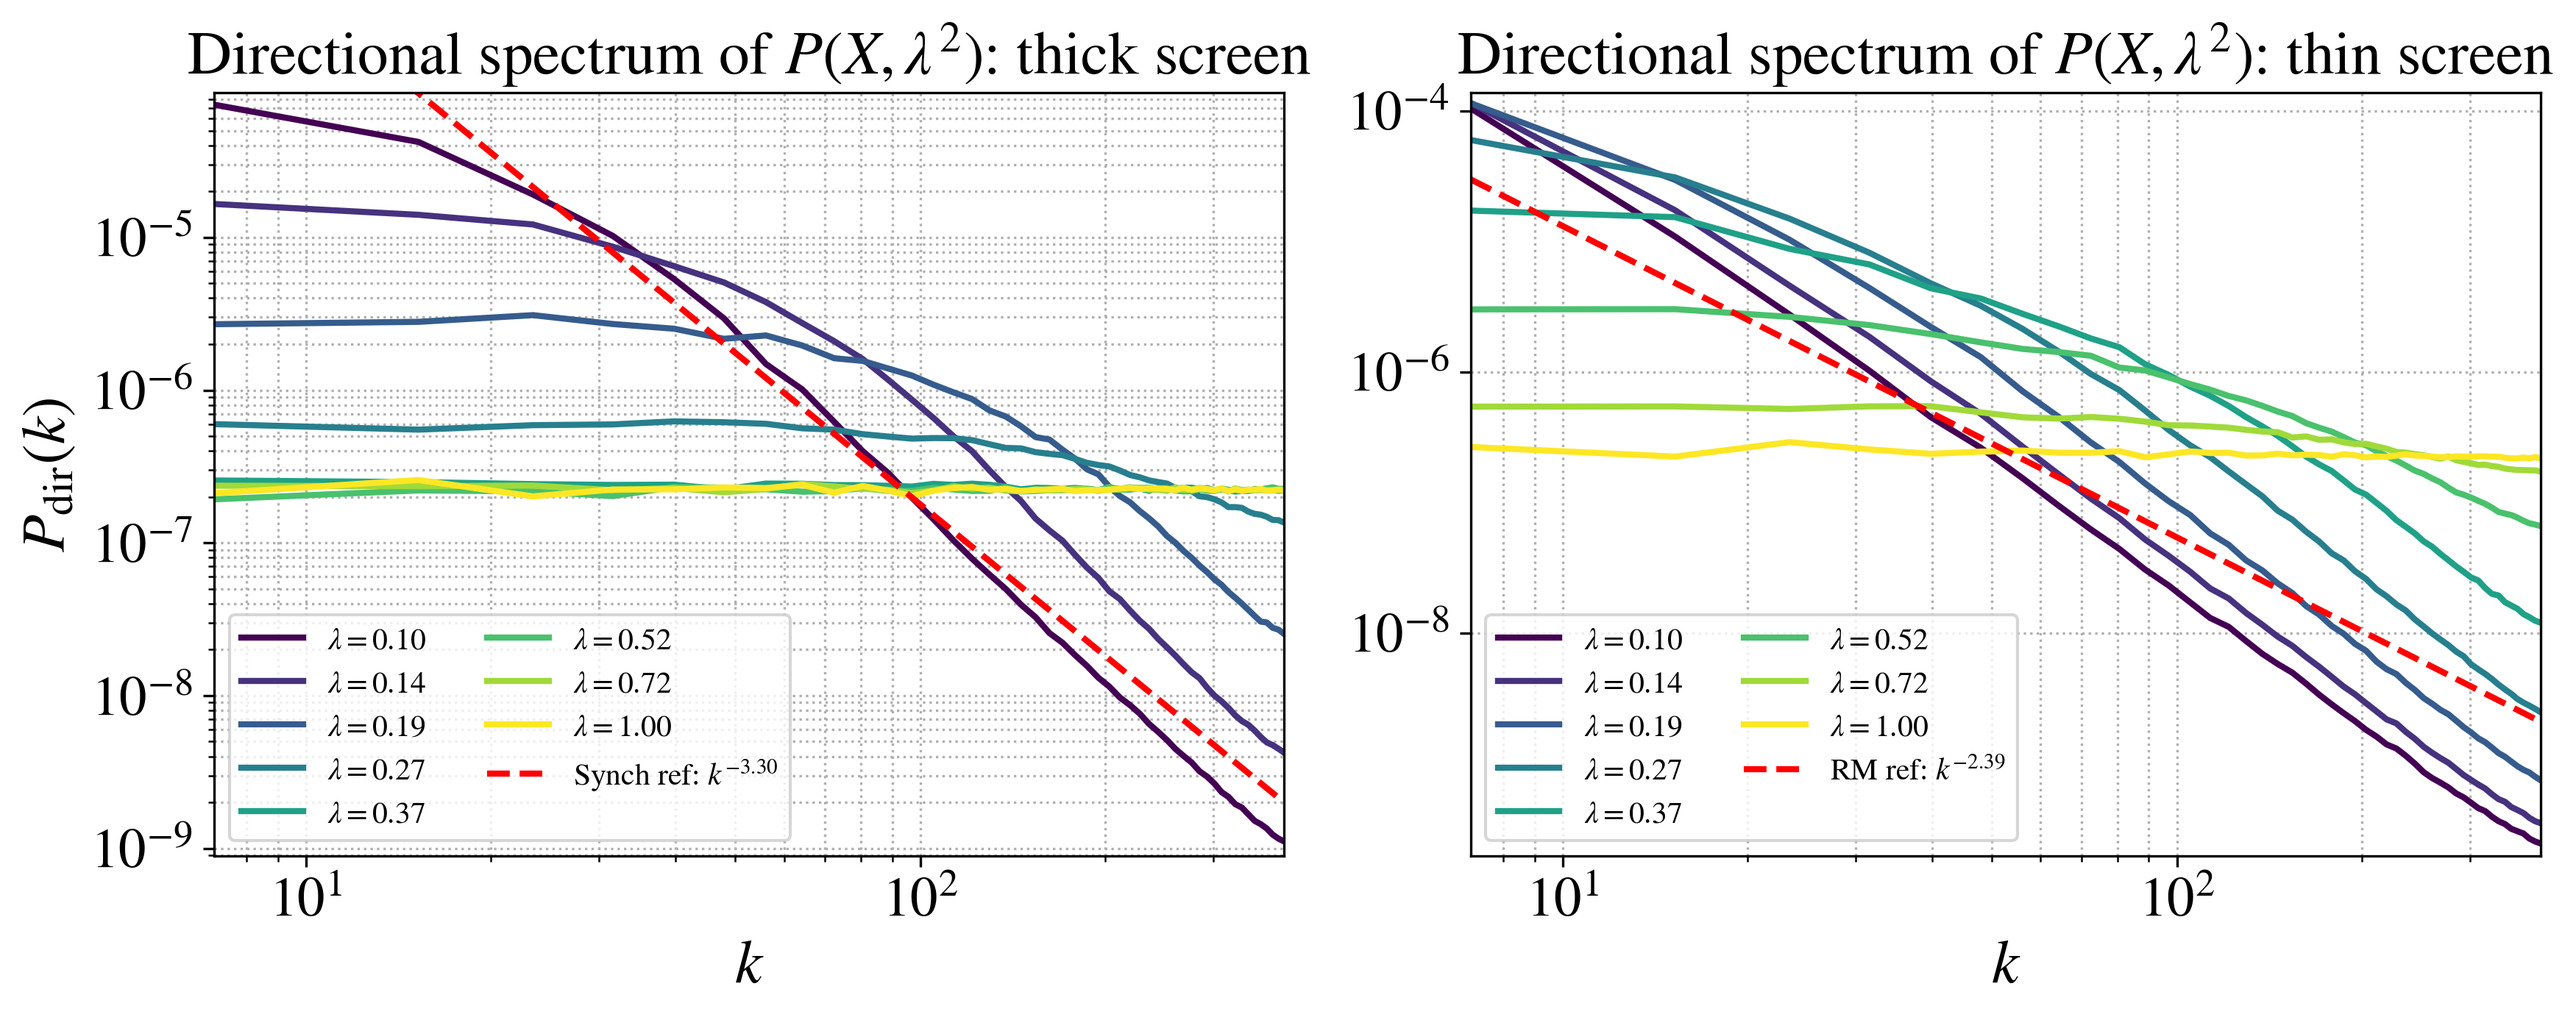
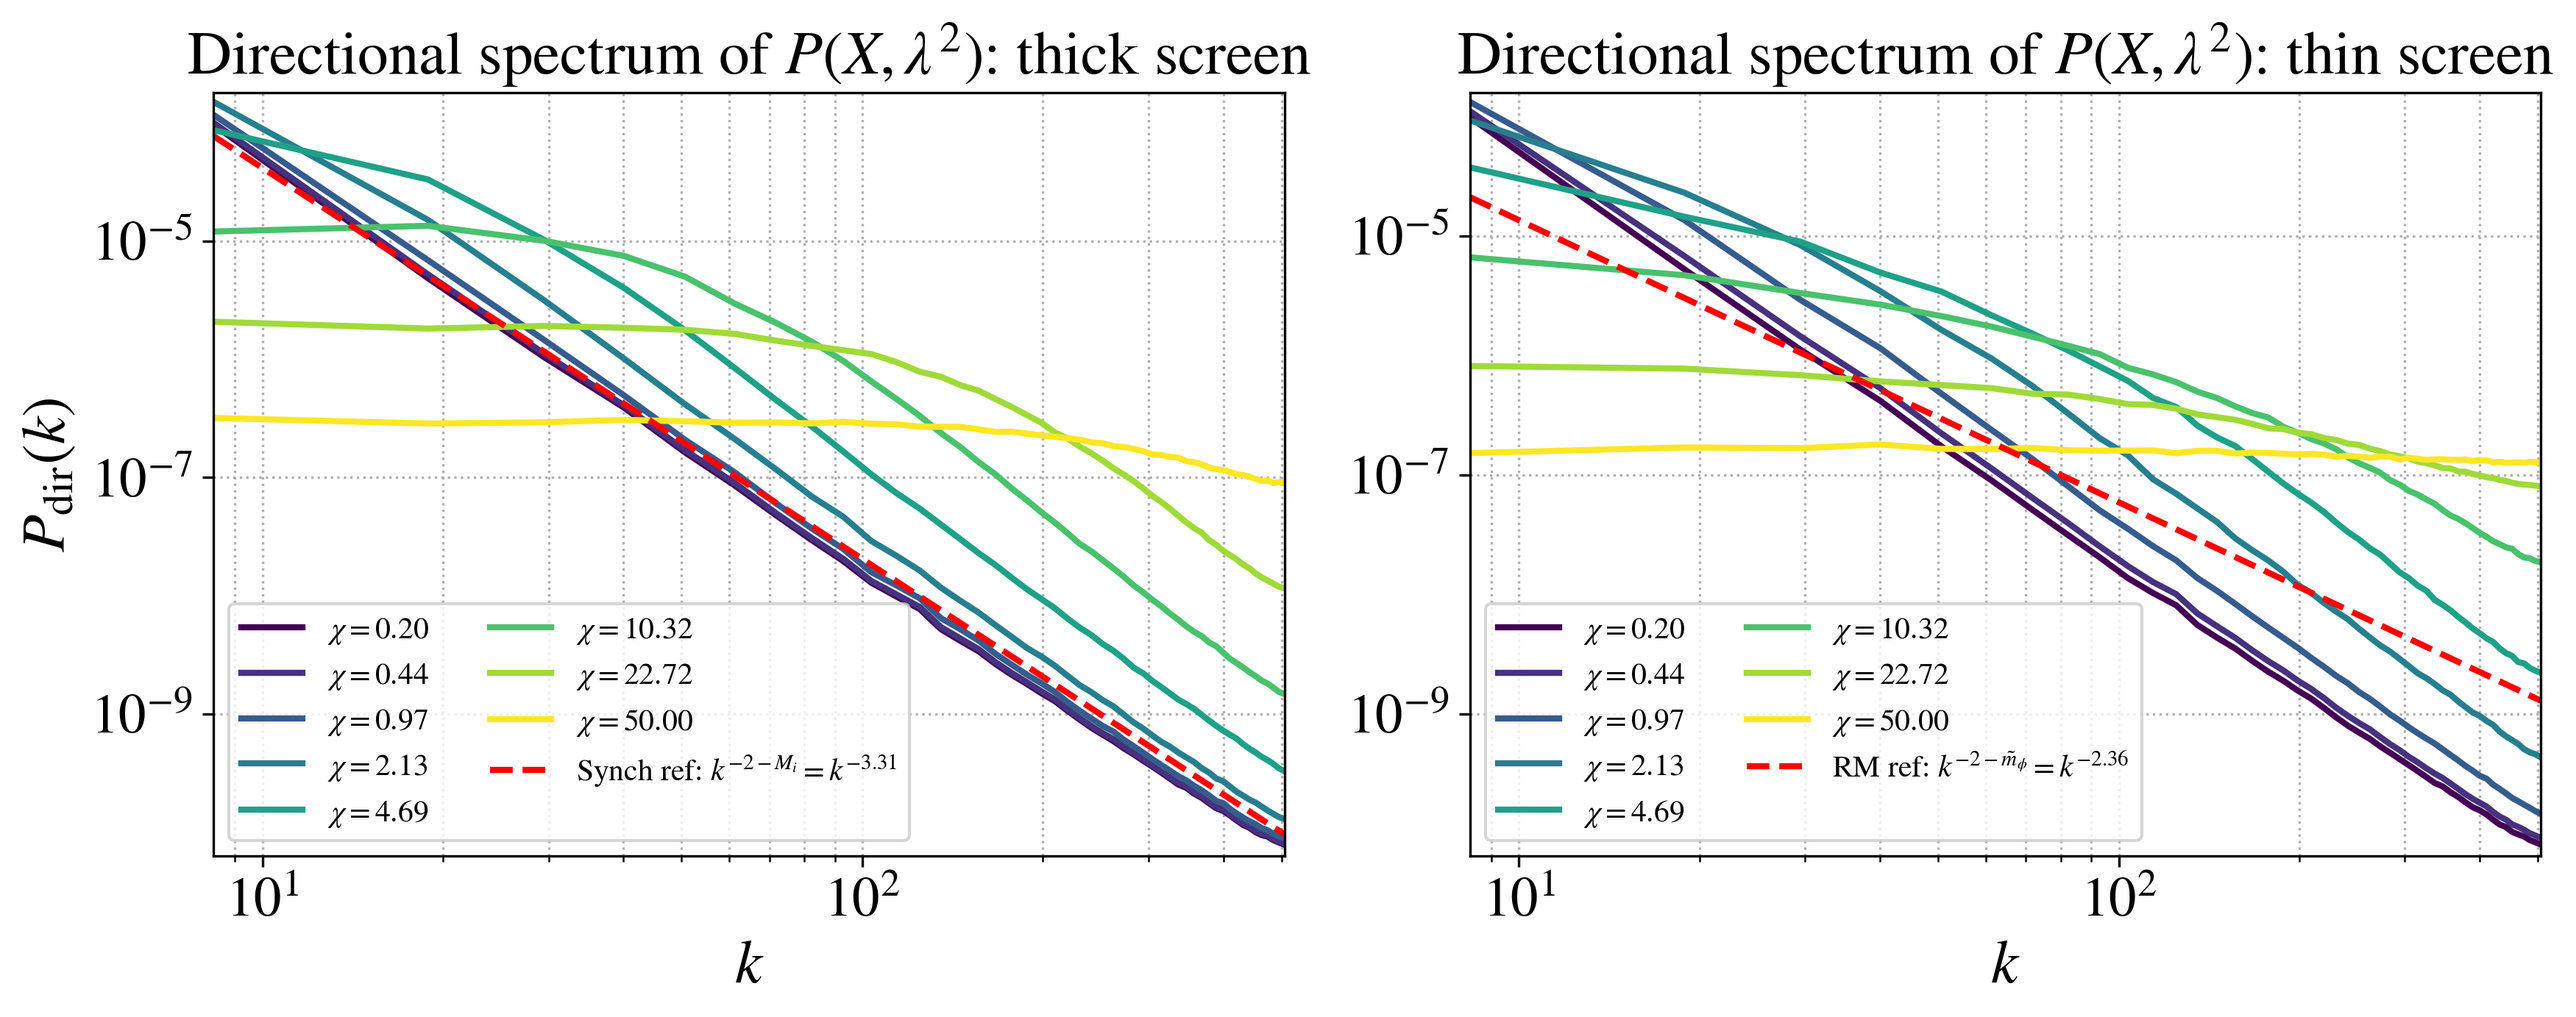
1024^3 synthetic simulation

diff --git a/compare_measures/directional_spectrum/appendix_c/163_165.py b/compare_measures/directional_spectrum/appendix_c/163_165.py
@@ -845,7 +845,7 @@ def validate_lp16_appendixC_theory_overlay(
     plt.savefig('validate_lp16_appendixC_theory_overlay.png', dpi=300, bbox_inches='tight')
     plt.show()
 
-    # ---------- Step 8: directional spectra of P(X, λ²) for a range of λ ----------
+    # ---------- Step 8: directional spectra of P(X, λ²) for a range of χ ----------
 
     # Compute sigma_RM (RMS of Rotation Measure) from Faraday depth maps
     sigma_RM_thick = np.std(Phi_thick)
@@ -855,28 +855,39 @@ def validate_lp16_appendixC_theory_overlay(
     print(f"  sigma_RM (thick): {sigma_RM_thick:.3f}")
     print(f"  sigma_RM (thin):  {sigma_RM_thin:.3f}")
 
-    # Choose λ range: e.g. λ from 0.1 to 5, log-spaced
-    lam_min = 0.1
-    lam_max = 1.0
-    n_lam   = 8   # number of λ values; adjust if you want more curves
+    # Choose χ range: χ = 2*sigma_RM*lambda^2, from 0.2 to 50, log-spaced
+    chi_min = 0.2
+    chi_max = 50.0
+    n_lam   = 8   # number of χ values
 
-    lam_values = np.logspace(np.log10(lam_min), np.log10(lam_max), n_lam)
+    chi_values = np.logspace(np.log10(chi_min), np.log10(chi_max), n_lam)
 
-    print("\nComputing directional spectra of P(X, λ²) for λ values:")
-    print("  ", lam_values)
+    # Compute corresponding lambda values for thick and thin screens
+    lam_values_thick = np.sqrt(chi_values / (2.0 * sigma_RM_thick))
+    lam_values_thin = np.sqrt(chi_values / (2.0 * sigma_RM_thin))
+
+    print("\nComputing directional spectra of P(X, λ²) for χ values:")
+    print(f"  χ values: {chi_values}")
+    print(f"  λ values (thick): {lam_values_thick}")
+    print(f"  λ values (thin): {lam_values_thin}")
 
     kc_th = None
     kc_tn = None
     Pdir_th_all = []
     Pdir_tn_all = []
 
-    for lam in lam_values:
-        lam2 = lam**2
+    for i, chi in enumerate(chi_values):
+        # Get corresponding lambda for this chi value
+        lam_thick = lam_values_thick[i]
+        lam_thin = lam_values_thin[i]
+        
+        lam2_thick = lam_thick**2
+        lam2_thin = lam_thin**2
 
         # Complex polarization for this λ² in the separated SEFR geometry:
         # P(X, λ²) = P_emit(X) * exp[2 i λ² Φ(X)]
-        P_th_lam = P_emit_thick * np.exp(2j * lam2 * Phi_thick)
-        P_tn_lam = P_emit_thin  * np.exp(2j * lam2 * Phi_thin)
+        P_th_lam = P_emit_thick * np.exp(2j * lam2_thick * Phi_thick)
+        P_tn_lam = P_emit_thin  * np.exp(2j * lam2_thin * Phi_thin)
 
         kc_th_i, Pdir_th_i = directional_spectrum_from_complex(
             P_th_lam, ring_bins=48, k_min=3.0)
@@ -933,15 +944,13 @@ def validate_lp16_appendixC_theory_overlay(
 
     # Thick screen panel
     ax = ax_th
-    for i, lam in enumerate(lam_values):
-        lam2 = lam**2
-        param_thick = 2.0 * sigma_RM_thick * lam2
-        label = rf"$2\sigma_{{\rm RM}}\lambda^2={param_thick:.3f}$"
+    for i, chi in enumerate(chi_values):
+        label = rf"$\chi={chi:.2f}$"
         ax.loglog(kc_th, Pdir_th_all[i], '-', lw=2, color=colors[i], label=label)
 
     # add synchrotron-like reference line
     ax.loglog(k_th_syn, P_th_syn, 'r--', lw=2,
-              label=fr"Synch ref: $k^{{{s_syn:.2f}}}$")
+              label=fr"Synch ref: $k^{{-2-M_i}}=k^{{{s_syn:.2f}}}$")
 
     ax.set_xlim([kc_th.min(), kc_th.max()])
     ax.set_ylim([Pdir_th_all.min() * 0.8, Pdir_th_all.max() * 1.2])
@@ -953,15 +962,13 @@ def validate_lp16_appendixC_theory_overlay(
 
     # Thin screen panel
     ax = ax_tn
-    for i, lam in enumerate(lam_values):
-        lam2 = lam**2
-        param_thin = 2.0 * sigma_RM_thin * lam2
-        label = rf"$2\sigma_{{\rm RM}}\lambda^2={param_thin:.3f}$"
+    for i, chi in enumerate(chi_values):
+        label = rf"$\chi={chi:.2f}$"
         ax.loglog(kc_tn, Pdir_tn_all[i], '-', lw=2, color=colors[i], label=label)
 
     # add RM-like reference line (for large λ)
     ax.loglog(k_th_rm, P_th_rm, 'r--', lw=2,
-              label=fr"RM ref: $k^{{{s_rm:.2f}}}$")
+              label=fr"RM ref: $k^{{-2-\tilde m_\phi}}=k^{{{s_rm:.2f}}}$")
 
     ax.set_xlim([kc_tn.min(), kc_tn.max()])
     ax.set_ylim([Pdir_tn_all.min() * 0.8, Pdir_tn_all.max() * 1.2])
@@ -998,7 +1005,7 @@ if __name__ == "__main__":
     # )
     
     validate_lp16_appendixC_theory_overlay(
-        n=256,
+        n=792,
         beta_B_emit=11.0/3.0,
         beta_ne_emit=11.0/3.0,
         beta_B_far=11.0/3.0,
